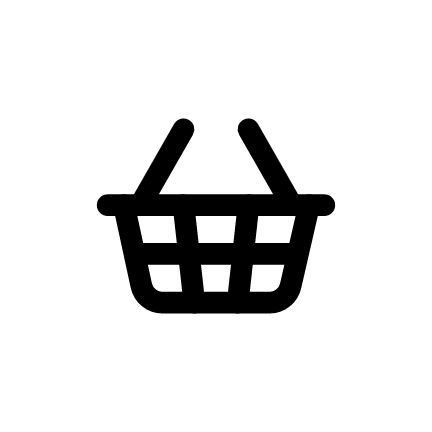
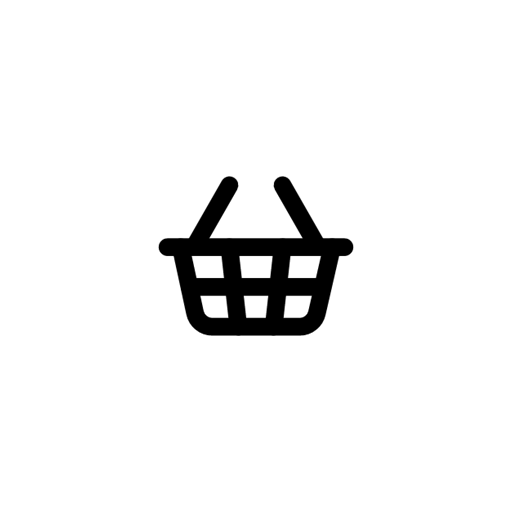
fix: bug

Changed region(s): [[0.2106, 0.2708, 0.7824, 0.7523]]

diff --git a/src/app/about.tsx b/src/app/about.tsx
@@ -25,14 +25,6 @@ export default function AboutScreen() {
             </ThemedText>
           ) : null}
         </View>
-
-        <ThemedText style={styles.paragraph}>
-          爱赶集是一款按农历集市日子提醒赶集的小应用。它会告诉你今天哪个村有集，并展示未来几天的集市安排。
-        </ThemedText>
-
-        <ThemedText style={styles.paragraph}>
-          集市每 5 天轮换一次，按农历日期排定：东夏峰逢 1、6，孟庄逢 3、8，西夏峰逢 5、0。
-        </ThemedText>
       </ScrollView>
     </ThemedView>
   );
@@ -63,8 +55,5 @@ const styles = StyleSheet.create({
     fontSize: 28,
     lineHeight: 36,
     fontWeight: '700',
-  },
-  paragraph: {
-    lineHeight: 24,
   },
 });
